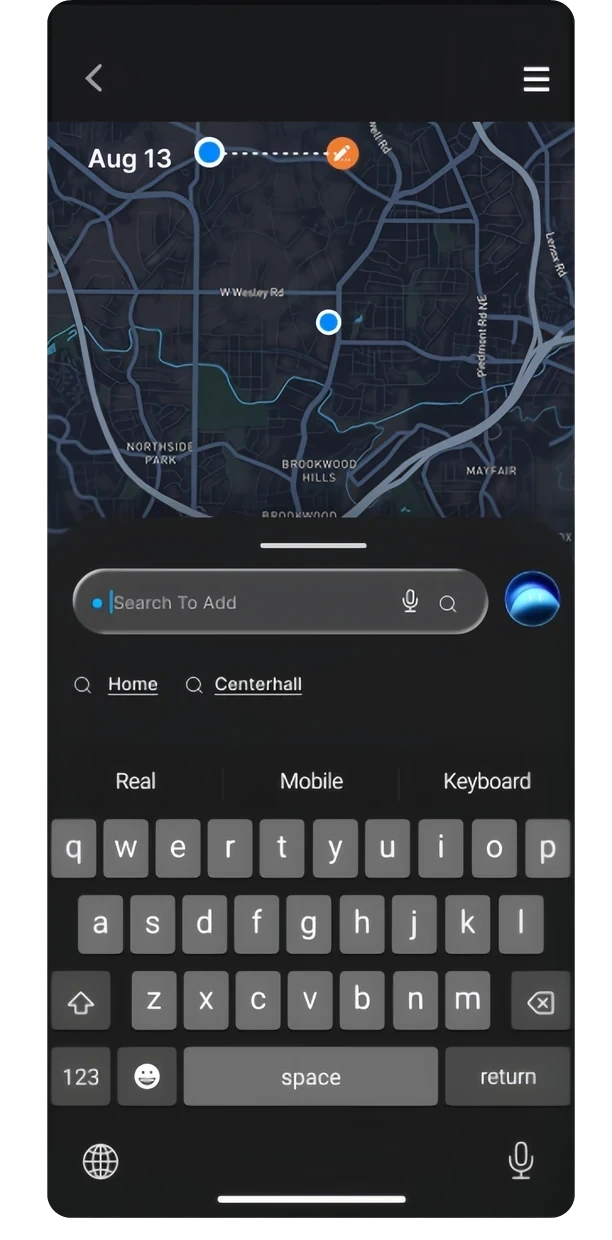
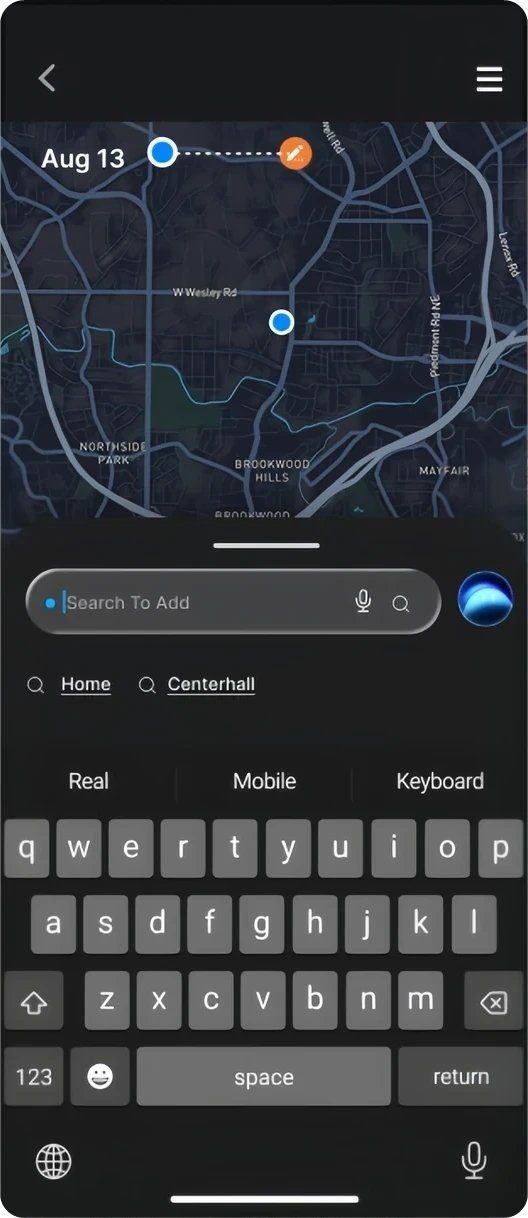
Framed phones: AI Trip Planning mockups and Vegan Kitchen before/after; plain quote text
- tools/trim_phone_canvas.py trims each trip phone to its screen and writes lib/trip-phones.json
  (size + baked corner radii); .phone-shell draws the page-colour border, hairline and drop
  shadow; slideshow stage padded so the shadow isn't clipped.
- CompareSlider wrapped in .phone-frame like PhoneFlow.
- Vegan Kitchen research quotes no longer highlighted.

diff --git a/app/work/ai-trip-planning/page.tsx b/app/work/ai-trip-planning/page.tsx
@@ -32,6 +32,7 @@ import { FlowPanel, PhoneStory, Shot, Slideshow, type Screen } from "@/component
 import { CreativeCTA } from "@/components/portfolio/creative-cta";
 import { CreativeNav } from "@/components/portfolio/creative-nav";
 import { figma, person, selectedWork } from "@/lib/content";
+import PHONES from "@/lib/trip-phones.json";
 
 export const metadata: Metadata = {
   title: `From Navigation to Intention — ${person.name}`,
@@ -93,46 +94,44 @@ const hu = (name: string, w: number, h: number, alt: string, step?: string): Scr
   alt,
   step,
 });
-const ph = (name: string, w: number, alt: string, step: string, detail: string): Screen => ({
+// Size (1000-tall units) and corner radii of each trimmed phone image, from tools/trim_phone_canvas.py.
+const ph = (name: keyof typeof PHONES, alt: string, step: string, detail: string): Screen => ({
   src: `${S}/phone-${name}.webp`,
-  w,
-  h: 1000,
+  ...PHONES[name],
   alt,
   step,
   detail,
 });
 
-const PHONE_PREFS_EXPRESS = ph(
-  "prefs-1",
-  433,
+const PHONE_PREFS_EXPRESS = ph("prefs-1",
   "Trip-planning preferences: place types, Favorites and Calendar quick-add, Less Driving and Lower Cost",
   "",
   "",
 );
-const PHONE_PREFS_PLAN = ph("prefs-2", 440, "AI-prepared route with five stops based on the user's preferences", "", "");
+const PHONE_PREFS_PLAN = ph("prefs-2", "AI-prepared route with five stops based on the user's preferences", "", "");
 
 const PHONE_MANUAL = [
-  ph("manual-1", 494, "Manual trip planning with Search To Add, categories, and previous preferences", "Start a plan", "Skip AI and planning opens here: search, categories, and places from past trips."),
-  ph("manual-2", 494, "Search field with the keyboard open", "Search for a place", "Type a name like Starbucks; recent places appear below."),
-  ph("manual-3", 496, "Nearby Starbucks locations on the map with an Add button", "Pick a nearby location", "Nearby Starbucks appear with rating, hours, price, and drive time. Tap Add."),
-  ph("manual-4", 502, "Route to Starbucks with total driving time and Save and Add buttons", "Save, or keep going", "The route appears with total driving time. Save ends planning; Add returns for another stop."),
-  ph("manual-5", 494, "Trip-planning screen again with Starbucks checked as the first stop", "Add the next stop", "Starbucks is checked off; the next stop can be a restaurant, coffee, or a hotel."),
+  ph("manual-1", "Manual trip planning with Search To Add, categories, and previous preferences", "Start a plan", "Skip AI and planning opens here: search, categories, and places from past trips."),
+  ph("manual-2", "Search field with the keyboard open", "Search for a place", "Type a name like Starbucks; recent places appear below."),
+  ph("manual-3", "Nearby Starbucks locations on the map with an Add button", "Pick a nearby location", "Nearby Starbucks appear with rating, hours, price, and drive time. Tap Add."),
+  ph("manual-4", "Route to Starbucks with total driving time and Save and Add buttons", "Save, or keep going", "The route appears with total driving time. Save ends planning; Add returns for another stop."),
+  ph("manual-5", "Trip-planning screen again with Starbucks checked as the first stop", "Add the next stop", "Starbucks is checked off; the next stop can be a restaurant, coffee, or a hotel."),
 ];
 
 const PHONE_AI = [
-  ph("ai-1", 430, "Natural-language request to go to the airport and then a seafood dinner", "Describe the day", "Tap the AI orb and say it: coffee, the airport to pick up a friend, then a seafood dinner."),
-  ph("ai-2", 411, "AI-suggested restaurants that match the request and preferences, with Add buttons", "Review what AI suggests", "AI suggests restaurants that fit the request and past preferences. Add one."),
-  ph("ai-3", 487, "AI optimizing the route for the departure time", "AI builds the route", "AI orders the stops around the departure time, avoiding traffic."),
-  ph("ai-4", 502, "Full route through Starbucks, the airport, and the restaurant with total driving time", "The finished trip", "The whole day on one route, with total driving time."),
-  ph("ai-5", 502, "Save sheet with Add Title, Add Color, and Add Description", "Save it", "Give the trip a title, a color, and a description."),
+  ph("ai-1", "Natural-language request to go to the airport and then a seafood dinner", "Describe the day", "Tap the AI orb and say it: coffee, the airport to pick up a friend, then a seafood dinner."),
+  ph("ai-2", "AI-suggested restaurants that match the request and preferences, with Add buttons", "Review what AI suggests", "AI suggests restaurants that fit the request and past preferences. Add one."),
+  ph("ai-3", "AI optimizing the route for the departure time", "AI builds the route", "AI orders the stops around the departure time, avoiding traffic."),
+  ph("ai-4", "Full route through Starbucks, the airport, and the restaurant with total driving time", "The finished trip", "The whole day on one route, with total driving time."),
+  ph("ai-5", "Save sheet with Add Title, Add Color, and Add Description", "Save it", "Give the trip a title, a color, and a description."),
 ];
 
 const PHONE_SCHEDULE = [
-  ph("schedule-1", 442, "August schedule with each day's color, stops, and location, and Make A Plan on today", "Open the schedule", "Every planned day with its color, stops, and location. Any future date can be planned here."),
-  ph("schedule-2", 442, "Saturday's saved trip with its stops, times, and total driving time", "Today's trip", "The saved trip, stop by stop, with times between each."),
-  ph("schedule-3", 437, "July schedule grouped by week with a Today button", "Browse by week", "Other weeks fold into groups; Today jumps back."),
-  ph("schedule-4", 434, "July days expanded to show each route's stops", "Open a day", "Tap a day to open its route, stop by stop."),
-  ph("schedule-5", 494, "Detailed Dating Day view with map, places, driving time, and battery usage", "Tap again for the full details", "Tap again for the full route: map, places, driving time, and battery usage."),
+  ph("schedule-1", "August schedule with each day's color, stops, and location, and Make A Plan on today", "Open the schedule", "Every planned day with its color, stops, and location. Any future date can be planned here."),
+  ph("schedule-2", "Saturday's saved trip with its stops, times, and total driving time", "Today's trip", "The saved trip, stop by stop, with times between each."),
+  ph("schedule-3", "July schedule grouped by week with a Today button", "Browse by week", "Other weeks fold into groups; Today jumps back."),
+  ph("schedule-4", "July days expanded to show each route's stops", "Open a day", "Tap a day to open its route, stop by stop."),
+  ph("schedule-5", "Detailed Dating Day view with map, places, driving time, and battery usage", "Tap again for the full details", "Tap again for the full route: map, places, driving time, and battery usage."),
 ];
 
 const HU_MANUAL = [

diff --git a/components/case/phone-flow.tsx b/components/case/phone-flow.tsx
@@ -131,49 +131,52 @@ export function CompareSlider({
           </span>
         ))}
       </div>
-      <div
-        ref={box}
-        className="relative w-full cursor-ew-resize touch-pan-y select-none"
-        style={{ aspectRatio: PHONE_RATIO }}
-        onPointerDown={down}
-        onPointerMove={(e) => dragging.current && move(e.clientX)}
-        onPointerUp={() => {
-          dragging.current = false;
-          setIsDragging(false);
-        }}
-        onPointerCancel={() => {
-          dragging.current = false;
-          setIsDragging(false);
-        }}
-        role="slider"
-        aria-label={`${beforeLabel} / ${afterLabel} comparison`}
-        aria-valuemin={0}
-        aria-valuemax={100}
-        aria-valuenow={Math.round(pos)}
-        tabIndex={0}
-        onKeyDown={(e) => {
-          if (e.key === "ArrowLeft") setPos((p) => Math.max(0, p - 5));
-          if (e.key === "ArrowRight") setPos((p) => Math.min(100, p + 5));
-        }}
-        data-cursor-hover
-      >
-        {/* eslint-disable-next-line @next/next/no-img-element */}
-        <img src={after.src} alt={after.alt} draggable={false} className="absolute inset-0 h-full w-full" />
-        <div className="absolute inset-0" style={{ clipPath: `inset(0 ${100 - pos}% 0 0)`, transition: isDragging ? "none" : "clip-path 0.6s cubic-bezier(0.65,0,0.35,1)" }}>
-          {/* eslint-disable-next-line @next/next/no-img-element */}
-          <img src={before.src} alt={before.alt} draggable={false} className="absolute inset-0 h-full w-full" />
-        </div>
+      {/* Framed like the PhoneFlow phones (.phone-frame): page-colour border, hairline ring, drop shadow */}
+      <div className="phone-frame">
         <div
-          aria-hidden
-          className="absolute inset-y-[3%] w-[2px] -translate-x-1/2 bg-white shadow-[0_0_0_1px_rgba(0,0,0,0.15)]"
-          style={{ left: `${pos}%`, transition: isDragging ? "none" : "left 0.6s cubic-bezier(0.65,0,0.35,1)" }}
+          ref={box}
+          className="relative w-full cursor-ew-resize touch-pan-y select-none"
+          style={{ aspectRatio: PHONE_RATIO }}
+          onPointerDown={down}
+          onPointerMove={(e) => dragging.current && move(e.clientX)}
+          onPointerUp={() => {
+            dragging.current = false;
+            setIsDragging(false);
+          }}
+          onPointerCancel={() => {
+            dragging.current = false;
+            setIsDragging(false);
+          }}
+          role="slider"
+          aria-label={`${beforeLabel} / ${afterLabel} comparison`}
+          aria-valuemin={0}
+          aria-valuemax={100}
+          aria-valuenow={Math.round(pos)}
+          tabIndex={0}
+          onKeyDown={(e) => {
+            if (e.key === "ArrowLeft") setPos((p) => Math.max(0, p - 5));
+            if (e.key === "ArrowRight") setPos((p) => Math.min(100, p + 5));
+          }}
+          data-cursor-hover
         >
-          <span className="absolute left-1/2 top-1/2 grid h-9 w-9 -translate-x-1/2 -translate-y-1/2 place-items-center rounded-full bg-white text-[13px] text-black shadow-lg">
-            ⟷
-          </span>
+          {/* eslint-disable-next-line @next/next/no-img-element */}
+          <img src={after.src} alt={after.alt} draggable={false} className="absolute inset-0 h-full w-full" />
+          <div className="absolute inset-0" style={{ clipPath: `inset(0 ${100 - pos}% 0 0)`, transition: isDragging ? "none" : "clip-path 0.6s cubic-bezier(0.65,0,0.35,1)" }}>
+            {/* eslint-disable-next-line @next/next/no-img-element */}
+            <img src={before.src} alt={before.alt} draggable={false} className="absolute inset-0 h-full w-full" />
+          </div>
+          <div
+            aria-hidden
+            className="absolute inset-y-[3%] w-[2px] -translate-x-1/2 bg-white shadow-[0_0_0_1px_rgba(0,0,0,0.15)]"
+            style={{ left: `${pos}%`, transition: isDragging ? "none" : "left 0.6s cubic-bezier(0.65,0,0.35,1)" }}
+          >
+            <span className="absolute left-1/2 top-1/2 grid h-9 w-9 -translate-x-1/2 -translate-y-1/2 place-items-center rounded-full bg-white text-[13px] text-black shadow-lg">
+              ⟷
+            </span>
+          </div>
         </div>
       </div>
-      <p className="font-gilroy mt-3 text-center text-[12px] uppercase tracking-[0.2em] text-neutral-500">Drag to compare</p>
+      <p className="font-gilroy mt-5 text-center text-[12px] uppercase tracking-[0.2em] text-neutral-500">Drag to compare</p>
     </div>
   );
 }

diff --git a/components/case/visuals.tsx b/components/case/visuals.tsx
@@ -20,6 +20,8 @@ export type Screen = {
   alt: string;
   step?: string;
   detail?: string;
+  /** CSS border-radius matching the corners baked into a phone image; phones with one get the framed look. */
+  radius?: string;
 };
 
 const TINT =
@@ -89,6 +91,8 @@ type Loop = Omit<ReturnType<typeof useLoop>, "ref">;
 // that extend past it (up to 214 units right, 50 below) have room without shifting the screen.
 const HMI_STAGE = { w: 1310, h: 558, x: 214 };
 const PHONE_RADIUS = "10px";
+/** Room around a framed phone, in its 1000-tall units: border + drop shadow (see .phone-shell). */
+const PHONE_PAD = { x: 40, top: 16, bottom: 64 };
 
 /** The sliding stage: one frame visible, horizontal slide between frames. */
 function Track({
@@ -102,8 +106,10 @@ function Track({
   center?: boolean;
   hmi?: boolean;
 }) {
-  const stageW = hmi ? HMI_STAGE.w : Math.max(...frames.map((f) => f.w));
-  const stageH = hmi ? HMI_STAGE.h : Math.max(...frames.map((f) => f.h));
+  // Framed phones need room inside the clipping stage for their border and drop shadow.
+  const pad = center ? PHONE_PAD : { x: 0, top: 0, bottom: 0 };
+  const stageW = hmi ? HMI_STAGE.w : Math.max(...frames.map((f) => f.w)) + pad.x * 2;
+  const stageH = hmi ? HMI_STAGE.h : Math.max(...frames.map((f) => f.h)) + pad.top + pad.bottom;
   const slides = frames.length > 1 ? [...frames, frames[0]] : frames;
   return (
     <div
@@ -131,16 +137,17 @@ function Track({
               loading="eager"
               decoding="async"
               draggable={false}
-              className="absolute top-0 select-none"
+              className={cn("absolute select-none", center && f.radius && "phone-shell")}
               style={{
                 left: hmi
                   ? `${(HMI_STAGE.x / stageW) * 100}%`
                   : center
                     ? `${((stageW - f.w) / 2 / stageW) * 100}%`
                     : 0,
+                top: `${(pad.top / stageH) * 100}%`,
                 width: `${(f.w / stageW) * 100}%`,
                 height: `${(f.h / stageH) * 100}%`,
-                borderRadius: center ? PHONE_RADIUS : undefined,
+                borderRadius: center ? (f.radius ?? PHONE_RADIUS) : undefined,
               }}
             />
           </div>
@@ -357,7 +364,11 @@ export function FlowPanel({
                 alt={it.alt}
                 loading="lazy"
                 decoding="async"
-                className="mx-auto block h-auto max-h-[70vh] w-auto max-w-full rounded-[10px] md:max-h-none md:w-full"
+                className={cn(
+                  "mx-auto block h-auto max-h-[70vh] w-auto max-w-full md:max-h-none md:w-full",
+                  it.radius ? "phone-shell" : "rounded-[10px]",
+                )}
+                style={it.radius ? { borderRadius: it.radius } : undefined}
               />
               <figcaption className="font-gilroy mt-5 text-center text-[14px] leading-[1.5] text-neutral-300 md:text-[15px]">
                 {it.label}

diff --git a/app/globals.css b/app/globals.css
@@ -591,6 +591,16 @@ html[data-case-theme="light"] .case-sheet .phone-frame {
   box-shadow: 0 0 0 1px rgb(0 0 0 / 0.05), 0 22px 40px -14px rgb(0 0 0 / 0.22);
 }
 
+/* Same framed look for screenshots whose rounded corners are baked into the image (AI Trip Planning phones,
+   the Vegan Kitchen before/after): a border in the page colour, a hairline ring and a drop shadow, all drawn
+   with box-shadow so they follow the element's border-radius and the image itself keeps its size. */
+.phone-shell {
+  box-shadow: 0 0 0 7px var(--case-bg, #0b0b0b), 0 0 0 8px rgb(255 255 255 / 0.06), 0 26px 44px -12px rgb(0 0 0 / 0.5);
+}
+html[data-case-theme="light"] .case-sheet .phone-shell {
+  box-shadow: 0 0 0 7px #ffffff, 0 0 0 8px rgb(0 0 0 / 0.05), 0 26px 44px -12px rgb(0 0 0 / 0.22);
+}
+
 /* Design page light mode (default). Warm off-white; dark only when the toggle sets data-case-theme="dark".
    Scoped to the page's <main>, so the nav and the closing section keep their own look. */
 .design-sheet { transition: background-color 0.35s ease, color 0.35s ease; }

diff --git a/app/playground/vegan-kitchen/page.tsx b/app/playground/vegan-kitchen/page.tsx
@@ -316,11 +316,11 @@ export default function ValsVeganKitchen() {
               <StaggerTestimonials
                 items={[
                   {
-                    quote: <Hl>&ldquo;I&apos;m trying to figure out where the actual menu starts.&rdquo;</Hl>,
+                    quote: <>&ldquo;I&apos;m trying to figure out where the actual menu starts.&rdquo;</>,
                     by: "Usability test participant",
                   },
                   {
-                    quote: <Hl>&ldquo;I&apos;d simplify the Home page and make important actions stand out more.&rdquo;</Hl>,
+                    quote: <>&ldquo;I&apos;d simplify the Home page and make important actions stand out more.&rdquo;</>,
                     by: "Usability test participant",
                   },
                 ]}
